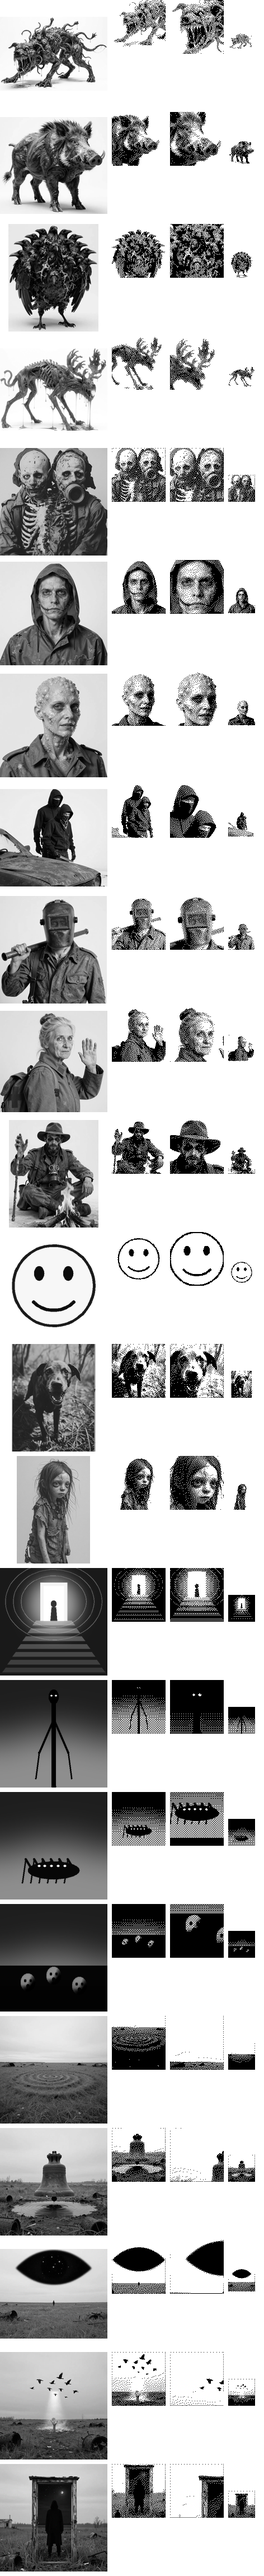
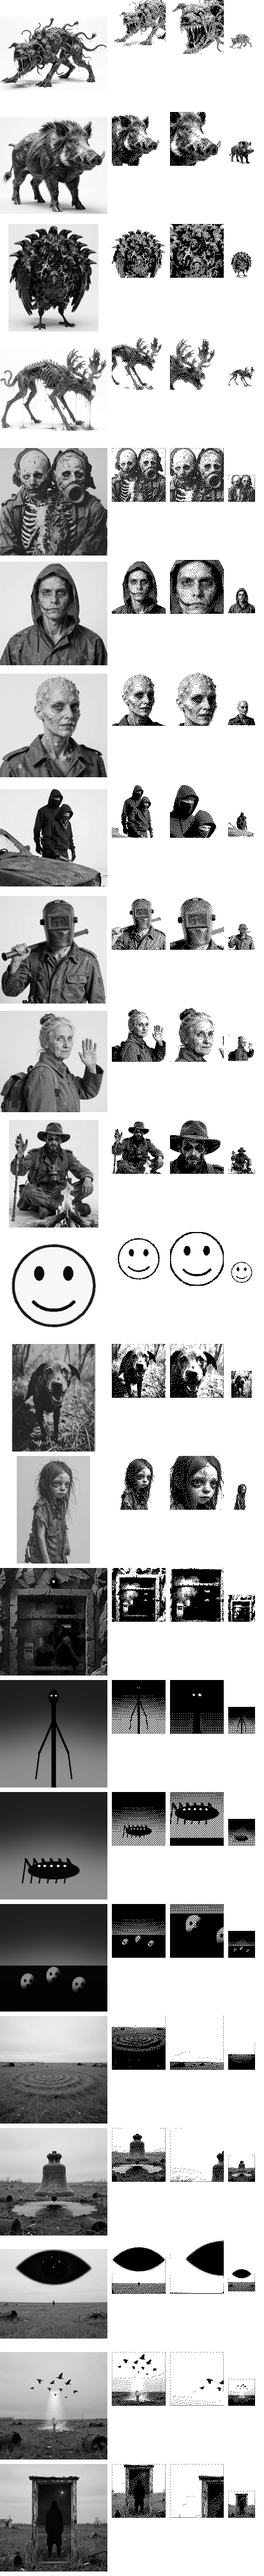
The Churn: the user's picture for the Institute's door
art/institute.png: the chained steel door in the quarry wall. The door and
the rock are the same brightness, so paint_portraits.py gained a rust
option that darkens by colour (red over blue) before dithering. The
quarry scene and log lines now describe the door, its card slot and its
bulb; LORE.md and the shared doc match.

Claude-Session: https://claude.ai/code/session_01SuvJnz175qPkCT91FUK7Pe

Changed region(s): [[0.0, 0.5907, 0.4153, 0.6528], [0.4449, 0.5907, 0.6229, 0.6528], [0.6822, 0.5907, 0.8602, 0.6217]]

diff --git a/examples/churn/tools/paint_portraits.py b/examples/churn/tools/paint_portraits.py
@@ -166,6 +166,12 @@ PHOTO = {
     "little": {"far": (0, 20, 512, 768), "near": (60, 30, 470, 500),
                "close": (150, 90, 400, 340), "gamma": 1.0, "edge": 0.9,
                "levels": (0.15, 0.70), "bg": 0.72},
+    # the user's own picture (2026-10-03, 512x768, from the PROMPTS prompt):
+    # the chained steel door in the quarry wall with its bulb and card slot; a
+    # painting in browns and grays, so levels spread it; square crops
+    "institute": {"far": (0, 60, 512, 572), "near": (10, 100, 502, 592),
+                  "close": (70, 180, 430, 540), "gamma": 1.0, "edge": 0.6, "rust": 2.0,
+                  "levels": (0.11, 0.26), "bg": 0.99},
     # the user's own picture (2026-10-03, 512x768): the stray in dry scrub,
     # inside a yellowed print border; a scene, not a backdrop, so levels keep
     # the scrub and a dark dog gets its mid-tones lifted
@@ -215,9 +221,21 @@ def photo_view(gray, box, size, gamma, edge, bg_level=0.86, levels=(0.08, 0.80))
     return small, bits
 
 
+def rust_gray(img, k):
+    """Grayscale where rust (red over blue) reads darker by k per level of
+    red-minus-blue: for pictures whose subject and ground are the same
+    brightness but not the same colour (the Institute's door on its rock)."""
+    r, _, b = img.convert("RGB").split()
+    gray = np.asarray(img.convert("L"), dtype=np.float32)
+    rust = np.clip(np.asarray(r, dtype=np.float32) - np.asarray(b, dtype=np.float32), 0, 255)
+    return Image.fromarray(np.clip(gray - k * rust, 0, 255).astype(np.uint8))
+
+
 def photo_views(path, name):
-    gray = Image.open(path).convert("L")
     cfg = PHOTO.get(name, {})
+    gray = Image.open(path).convert("L")
+    if cfg.get("rust"):
+        gray = rust_gray(Image.open(path), cfg["rust"])
     whole = subject_bbox(gray)
     x0, y0, x1, y1 = whole
     guess_close = (x0, y0, x0 + (x1 - x0) // 2, y0 + (x1 - x0) // 2)

diff --git a/examples/churn/HANDOFF.md b/examples/churn/HANDOFF.md
@@ -126,6 +126,7 @@ The sim is not byte-reproducible between processes (Lua 5.4 varies `pairs` order
 > - **Host fix on the way** (earlier commit): `getch` keeps unhandled events in `self.pending`.
 > - Tests: `quest_test` 9-16, `towns_test` 5 asks Okun till she offers fish.
 > - **The user's pictures (same day):** `art/fused.jpg` (replaces the generated Fused: the pair, one in a gas mask) and `art/stray.jpg` (the stray dog, art key `stray`). `PHOTO` crops are square (a non-square crop is widened and caught the print border); the dog is a scene, so `levels` (0.12, 0.60) and bg 0.70 to keep the scrub pale behind it. Both intros rewritten to match. Previews `preview_encounter_fused.png`, `preview_encounter_dog.png`.
+> - **Institute picture (same day):** `art/institute.png` (the user's, from the PROMPTS prompt: a chained riveted door in the quarry rock, card slot, bulb). The door and rock are the same brightness (~0.27) and differ only in colour, so `PHOTO` gained `rust`: `rust_gray` darkens by k x (red - blue) before the tone steps; levels (0.11, 0.26) then put the door at black and the stone at white. The quarry scene and the arrival log lines describe the door now (log lines stay <= 57 characters: the map log doesn't wrap). The Whisperers, Long Man and Crawler pictures were sent mid-task and never reached the session's files: they need sending again.
 > - **Window close asks too.** The PC host turns pygame.QUIT into `KEY_CLOSE` (0xF0; `KEY.CLOSE` in the Lua, never sent by the device): `Game:close_requested()` asks mid-run (a second close while asking, or any close off a run, quits; `Game.OFF_RUN` lists the free screens). Host guards: SDL repeats a QUIT once on its own, so a close before the game redrew or within `CLOSE_GAP` (0.25 s) is dropped; `CLOSE_TRIES` (3) closes in a row force the window shut for a game that doesn't know the key. **Host fix found on the way:** `getch` used to take every waiting event and return after the first, dropping the rest (fast typing lost keys); events now wait in `self.pending`. Tests: `quit_test` 3b, `pygame_host_test` 10; checked end to end with posted events (start a run, close: prompt; echo ignored; close again: quits, saved).
 > - **Lore doc** (same day): the People table gained the drive/notes/swap jobs, armed bandits and a Rival Churners row; "What the dead knew" the Institute crate and **Dead churners**; "Guns in the Churn" **Who shoots back**. LORE.md matches.
 >

diff --git a/examples/churn/LORE.md b/examples/churn/LORE.md
@@ -234,7 +234,7 @@ Every run grows a new map, but its landmarks always keep the same relationships:
 | The Checkpoint | Guard tower, razor wire, searchlight, the sergeant | The edge hex farthest from the town, never water |
 | The Ferry Post | A few ruined huts and a jetty; Mother Okun | Beside water, 9 or more hexes from the town |
 | The river and fords | Two rivers cross the Churn; fords are the shallow crossings | Wherever the land falls; at least one ford always leads to the start |
-| The quarry | A rusted gate stencilled INSTITUTE, sealed | A hills hex, 8 or more hexes from both trading posts |
+| The quarry | A chained steel door in the rock, INSTITUTE stencilled on the rust, a card slot for the pass, a bulb burning with no power | A hills hex, 8 or more hexes from both trading posts |
 | Hot fields | Five anomaly fields, an artifact at each centre | Away from the start and the towns |
 | Warrens | Burrows of the Little Ones | Three, in forest or hills, at least 5 hexes apart |
 | Cairns | Little piles of stones with a shell on top | Seven, 2 to 5 hexes from a warren |
